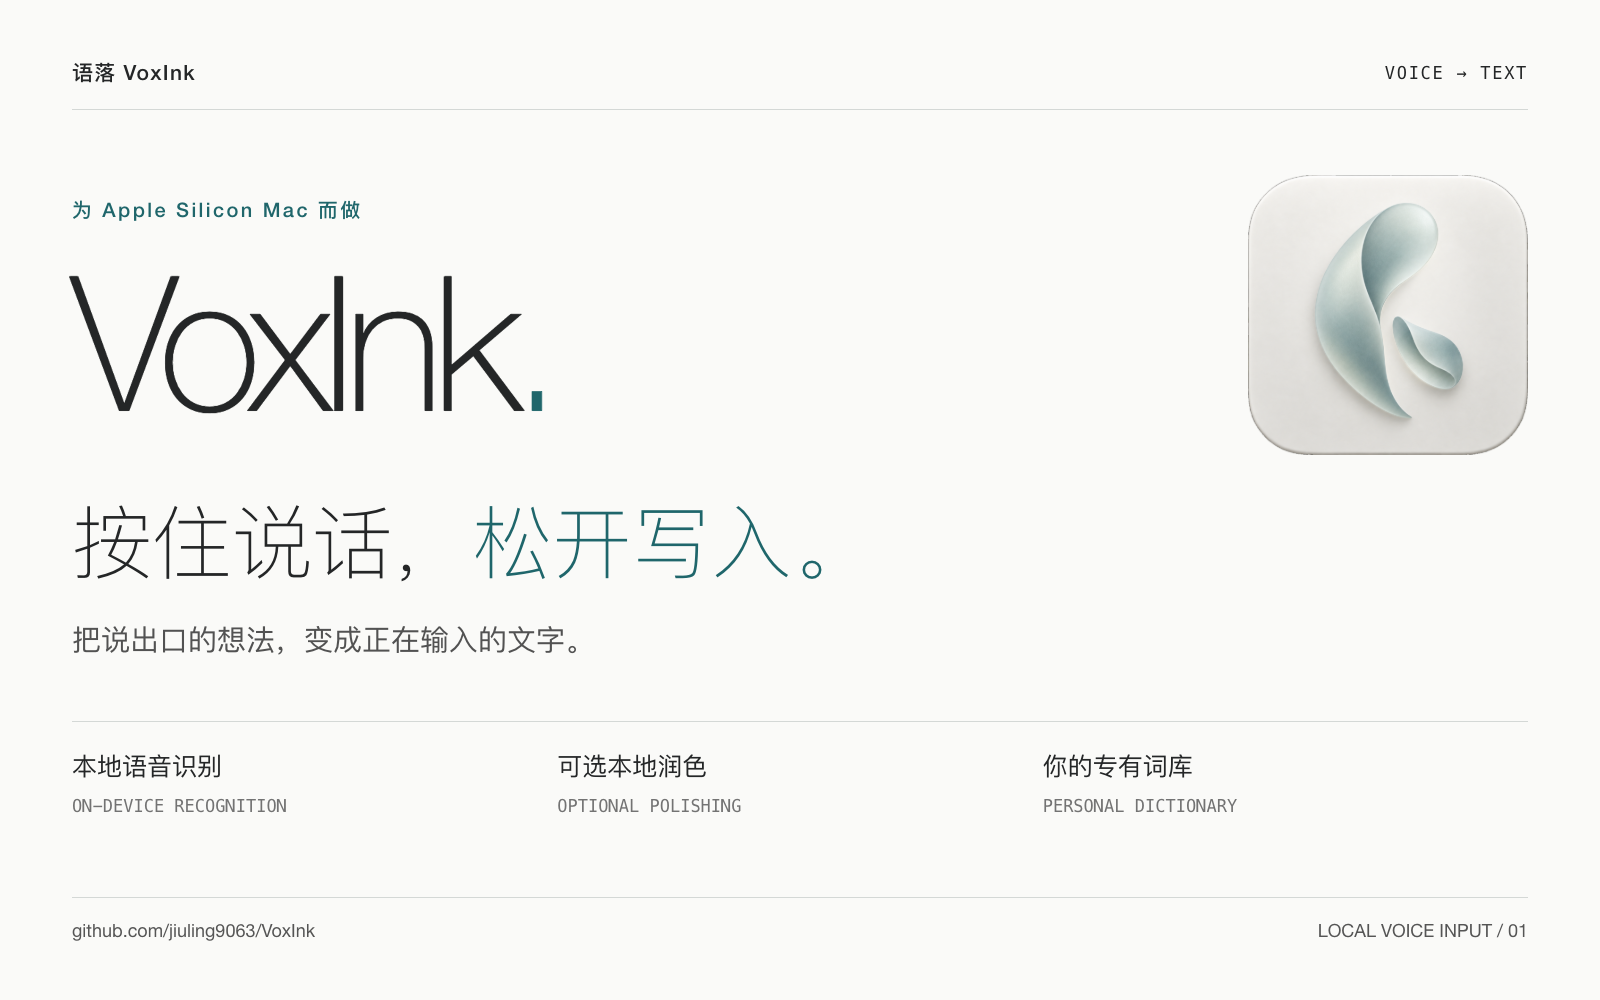
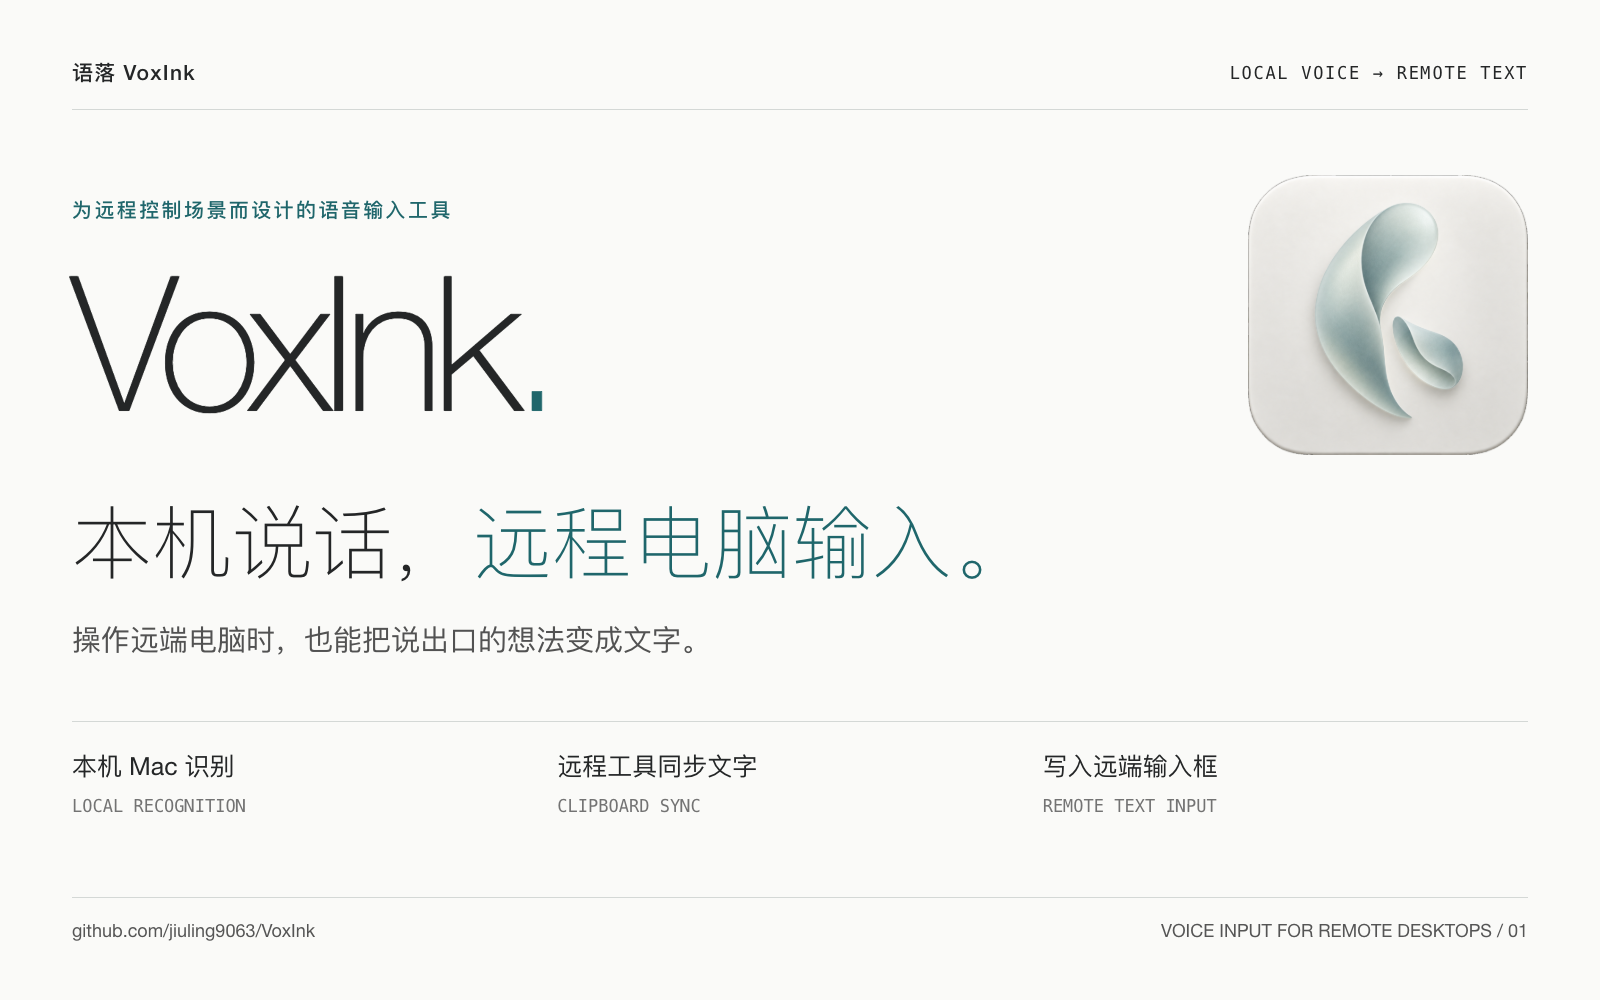
docs: lead with remote desktop voice input

diff --git a/README.md b/README.md
@@ -1,8 +1,8 @@
 <p align="center">
-  <img src="docs/images/voxink-intro/01-cover.png" width="100%" alt="语落 VoxInk：按住说话，松开写入。面向 Apple Silicon Mac 的本地语音输入工具。">
+  <img src="docs/images/voxink-intro/01-cover.png" width="100%" alt="语落 VoxInk：本机说话，远程电脑输入。为远程控制场景而设计的语音输入工具。">
 </p>
 <h1 align="center">语落 VoxInk</h1>
-<p align="center">按住说话，松开写入。面向 Apple Silicon Mac 的本地语音输入工具。</p>
+<p align="center">本机说话，远程电脑输入。为远程控制场景而设计的语音输入工具。</p>
 <p align="center">
   <a href="https://github.com/jiuling9063/VoxInk/releases/latest">下载正式版</a> ·
   <a href="docs/安装与使用.md">安装与使用</a> ·
@@ -10,24 +10,32 @@
   <a href="https://github.com/jiuling9063/VoxInk/issues">问题反馈</a>
 </p>
 
-语落将语音转换为文字，可选在本机润色，再写入你正在使用的应用。运行组件已随 App 提供，首次使用只需授权和下载模型，无需自行安装 Python、MLX 或配置命令行环境。
+**远程控制电脑时，也能用语音输入文字——这是语落 VoxInk 的设计起点与核心场景。** 在本机 Apple Silicon Mac 上说话，语落完成识别和可选润色，再借助远程工具的剪贴板同步，将文字输入远端电脑的目标输入框。语落也支持本机应用中的日常语音输入。
+
+运行组件已随 App 提供，首次使用只需授权和下载模型，无需自行安装 Python、MLX 或配置命令行环境。
 
 当前正式版本：**0.1.12（构建 14）**，通过签名、公证的 DMG 直接分发。源码和正式安装包通过本仓库公开提供。
 
-![从说出想法，到本机成文，再写入当前应用](docs/images/voxink-intro/02-flow.png)
+## 为远程输入而设计
+
+操作的是远端电脑，说话用的是本机麦克风。语落在本机完成语音识别，不依赖把麦克风音频转发给远端识别；识别后的文字通过远程客户端的剪贴板同步传递，再发送适合远端系统的粘贴快捷键。
+
+![在本机 Mac 说话并识别，经远程工具同步文字，输入远端 Mac 或 Windows 电脑](docs/images/voxink-intro/02-flow.png)
+
+在“快捷键与输入 → 远程工具”中按应用选择 Mac / Windows 粘贴方式，并设置剪贴板同步等待。远程客户端必须支持并启用剪贴板同步；具体配置见[安装与使用](docs/安装与使用.md#远程工具)。不同客户端、远端系统和全屏模式的兼容性存在差异；网页远程桌面请手动复制。
 
 ## 功能
 
-![语落功能总览：多语言表达、语音工作台、无需配置命令行环境](docs/images/voxink-intro/05-overview.png)
+![围绕远程输入的语落：远程工具适配、本地识别与日常语音输入](docs/images/voxink-intro/05-overview.png)
 
 | 功能 | 说明 |
 | --- | --- |
+| **远程电脑语音输入** | **核心场景：本机识别，经远程工具剪贴板同步写入远端；按应用配置 Mac / Windows 粘贴方式和同步等待** |
 | 快捷语音输入 | 默认 `⌥ Space`，支持推荐组合、自定义快捷键、按住说话或切换录音 |
 | 本地识别 | 音频在 Mac 上处理，模型下载后可离线使用 |
 | 可选本地润色 | 整理口头词和明显重复；失败、超时或校验不通过时保留未润色文字 |
 | 自定义词库 | 专有名词纠正、CSV 导入预览与导出、文字预览 |
 | 多语言 | 简体中文、繁体中文、英语、日语、韩语界面；普通话、粤语、英语、日语、韩语识别及自动检测 |
-| 远程工具配置 | 按应用设置 Mac / Windows 粘贴方式及剪贴板同步等待 |
 | 工作台与恢复 | 录音试用、音频导入、复制结果、本次启动期间的转录历史；未完成录音可恢复 |
 
 ### 词库与文字处理
@@ -64,6 +72,7 @@
 <sub>转录引擎实际界面截图来自 0.1.11。当前功能与数据处理方式以下方说明为准。</sub>
 
 - 音频与文字不上传云端识别或润色，也不会自动切换到云端模型。
+- 远程输入时，识别后的文字会经远程客户端的剪贴板同步传递到远端电脑；本地识别不代表文字始终留在本机。同步行为与安全性也取决于所用远程工具及其配置。
 - 模型从 Hugging Face 按固定版本下载；下载服务会接收正常网络连接信息。来源和校验数据见 [识别模型清单](benchmark/model-manifest.json) 与 [润色模型定义](app/Sources/VoxInkUI/PolishModel.swift)。
 - 转录历史在退出后清除。当前结果可查看识别原文，历史目前只保存最终文字。
 - 完成写入、成功复制或取消后清理对应录音。未完成录音最多一条，有效期 24 小时，App 运行时检查清理；退出期间没有后台进程到点删除。
